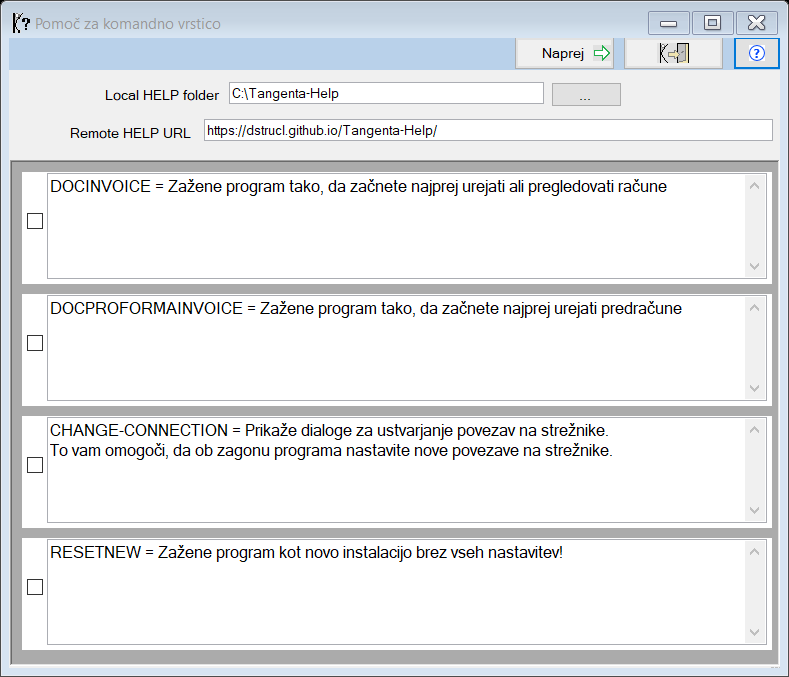
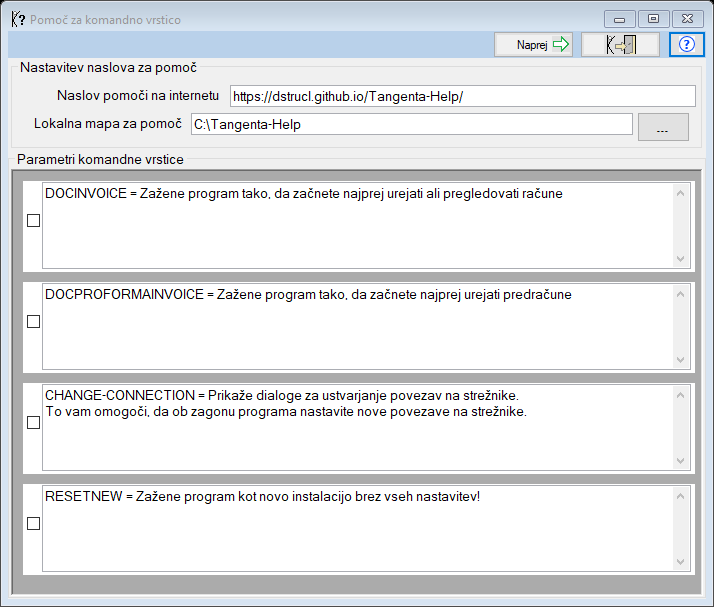
add header.html

Changed region(s): [[0.0, 0.0, 0.986, 1.0]]

diff --git a/V1_0_0_1/slo/CommandLineHelp/CommandLineHelp_Form.html b/V1_0_0_1/slo/CommandLineHelp/CommandLineHelp_Form.html
@@ -1,23 +1,30 @@
 <?xml version="1.0" encoding="utf-8"?>
 <html>
   <head>
-    <link rel="stylesheet" type="text/css" href="style.css"/>
+	<meta http-equiv="X-UA-Compatible" content="IE=edge" /> 
+    <link rel="stylesheet" type="text/css" href="style.css" />
     <title>Pomoč za komandno vrstico</title>
   </head>
   <body>
     <TControl name="CommandLineHelp_Form" imageincluded="1" link="" margin="4" heading="h1">
       <div class="Title">
-        <h1 class="Title">Pomoč za komandno vrstico in nastavitev povezave na pomoč</h1>
-        <div class="About">Dialog se prikaže kadar zaženemo program Tangenta.exe s parametrom 
-"/?"
-V zgornjem delu lahko nastavimo povezavo (mapo na lokalno pomoč)
-kot tudi internetni naslov pomoči.
-Dialog prikaže še vse ostale možne parametre komandne vrstice, 
-vključno z zagonom programa Tangenta.exe z izbranim parametrom.
-</div>
-        <img src="CommandLineHelp_Form.png" width="789" height="677" />
-        <div class="Description">V kolikor damo odkljukamo komandni parameter, se bo program nadaljeval 
-natanko tako, kot če bi ga napisali v komandni vrstici in nato zagnali.</div>
+<p id="demo"></p>
+
+<script>
+function loadXMLDoc() {
+  var xhttp = new XMLHttpRequest();
+  xhttp.onreadystatechange = function() {
+    if (this.readyState == 4 && this.status == 200) {
+      document.getElementById("demo").innerHTML =
+      this.responseText;
+    }
+  };
+  xhttp.open("GET", "file:///C:/Tangenta-Help/V1_0_0_1/slo/header.html", true);
+  xhttp.send();
+}
+</script>
+        <h1 class="Title" id="052d269c-a5cd-44ac-b026-f0b55f99c083">Pomoč za komandno vrstico</h1>
+        <img src="CommandLineHelp_Form.png" width="714" height="607" />
       </div>
       <TControl name="CommandLineHelp_Form.usrc_NavigationButtons1" imageincluded="1" link="" margin="4" heading="h2">
         <TControl name="CommandLineHelp_Form.usrc_NavigationButtons1.btn2" imageincluded="1" link="" margin="4" heading="h2" />
@@ -26,55 +33,43 @@ natanko tako, kot če bi ga napisali v komandni vrstici in nato zagnali.</div>
           <TControl name="CommandLineHelp_Form.usrc_NavigationButtons1.usrc_Help1.btn_Help" imageincluded="1" link="" margin="4" heading="h2" />
         </TControl>
       </TControl>
-      <TControl name="CommandLineHelp_Form.usrc_SelectLocalHelpFolder" imageincluded="1" link="" margin="4" heading="h2">
-        <TControl name="CommandLineHelp_Form.usrc_SelectLocalHelpFolder.label1" imageincluded="1" link="" margin="4" heading="h2" />
-        <TControl name="CommandLineHelp_Form.usrc_SelectLocalHelpFolder.txt_Folder" imageincluded="1" link="" margin="4" heading="h2" />
-        <TControl name="CommandLineHelp_Form.usrc_SelectLocalHelpFolder.btn_SelectFolder" imageincluded="1" link="" margin="4" heading="h2" />
+      <TControl name="CommandLineHelp_Form.usrc_HelpSettings1" imageincluded="1" link="" margin="4" heading="h2">
+        <TControl name="CommandLineHelp_Form.usrc_HelpSettings1.grp_HelpSettings" imageincluded="1" link="" margin="4" heading="h2">
+          <div class="Title">
+            <h2 class="Title" id="b618c00c-0727-4d0f-b257-daa74144ab39">Nastavitev naslova za pomoč</h2>
+            <img src="CommandLineHelp_Form_usrc_HelpSettings1_grp_HelpSettings.png" width="691" height="90" />
+          </div>
+          <TControl name="CommandLineHelp_Form.usrc_HelpSettings1.grp_HelpSettings.lbl_RemoteURL" imageincluded="1" link="" margin="4" heading="h2" />
+          <TControl name="CommandLineHelp_Form.usrc_HelpSettings1.grp_HelpSettings.txt_RemoteHelpURL" imageincluded="1" link="" margin="4" heading="h2" />
+          <TControl name="CommandLineHelp_Form.usrc_HelpSettings1.grp_HelpSettings.usrc_SelectLocalHelpFolder" imageincluded="1" link="" margin="4" heading="h2">
+            <TControl name="CommandLineHelp_Form.usrc_HelpSettings1.grp_HelpSettings.usrc_SelectLocalHelpFolder.label1" imageincluded="1" link="" margin="4" heading="h2" />
+            <TControl name="CommandLineHelp_Form.usrc_HelpSettings1.grp_HelpSettings.usrc_SelectLocalHelpFolder.txt_Folder" imageincluded="1" link="" margin="4" heading="h2" />
+            <TControl name="CommandLineHelp_Form.usrc_HelpSettings1.grp_HelpSettings.usrc_SelectLocalHelpFolder.btn_SelectFolder" imageincluded="1" link="" margin="4" heading="h2" />
+          </TControl>
+        </TControl>
       </TControl>
-      <TControl name="CommandLineHelp_Form.lbl_RemoteURL" imageincluded="1" link="" margin="4" heading="h2" />
-      <TControl name="CommandLineHelp_Form.txt_RemoteHelpURL" imageincluded="1" link="" margin="4" heading="h2" />
-      <TControl name="CommandLineHelp_Form.panel_Help" imageincluded="1" link="" margin="4" heading="h2">
-        <TControl name="CommandLineHelp_Form.panel_Help.CommandLineHelp_ItemControl[0]" imageincluded="1" link="" margin="4" heading="h2">
-          <div class="Title">
-            <h2 class="Title">Parameter "/DOCINVOICE"</h2>
-            <div class="About">V kolikor program zaženemo v komandni vrstici s parametron "/DOCINVOICE"
-se bo program avtomastko zagnal v načinu pisanja računov</div>
-            <img src="CommandLineHelp_Form_panel_Help_CommandLineHelp_ItemControl_0_.png" width="750" height="112" />
-          </div>
-          <TControl name="CommandLineHelp_Form.panel_Help.CommandLineHelp_ItemControl[0].txt_Help" imageincluded="1" link="" margin="4" heading="h2" />
-          <TControl name="CommandLineHelp_Form.panel_Help.CommandLineHelp_ItemControl[0].chk_select" imageincluded="1" link="" margin="4" heading="h2" />
-        </TControl>
-        <TControl name="CommandLineHelp_Form.panel_Help.CommandLineHelp_ItemControl[1]" imageincluded="1" link="" margin="4" heading="h2">
-          <div class="Title">
-            <h2 class="Title">Parameter "/DOCPROFORMAINVOICE"</h2>
-            <div class="About">V kolikor program zaženemo v komandni vrstici s parametron "/DOCINVOICE"
-se bo program avtomastko zagnal v načinu pisanja računov</div>
-            <img src="CommandLineHelp_Form_panel_Help_CommandLineHelp_ItemControl_1_.png" width="750" height="112" />
-          </div>
-          <TControl name="CommandLineHelp_Form.panel_Help.CommandLineHelp_ItemControl[1].txt_Help" imageincluded="1" link="" margin="4" heading="h2" />
-          <TControl name="CommandLineHelp_Form.panel_Help.CommandLineHelp_ItemControl[1].chk_select" imageincluded="1" link="" margin="4" heading="h2" />
-        </TControl>
-        <TControl name="CommandLineHelp_Form.panel_Help.CommandLineHelp_ItemControl[2]" imageincluded="1" link="" margin="4" heading="h2">
-          <div class="Title">
-            <h2 class="Title">Parameter "/CHANGE-CONNECTION"</h2>
-            <div class="About">V kolikor program zaženemo v komandni vrstici s parametron "/CHANGE-CONNECTION"
-se bo avtomatsko pojavil dialog za izbiro strežnika in nato podatkovne baze.</div>
-            <img src="CommandLineHelp_Form_panel_Help_CommandLineHelp_ItemControl_2_.png" width="750" height="112" />
-          </div>
-          <TControl name="CommandLineHelp_Form.panel_Help.CommandLineHelp_ItemControl[2].txt_Help" imageincluded="1" link="" margin="4" heading="h2" />
-          <TControl name="CommandLineHelp_Form.panel_Help.CommandLineHelp_ItemControl[2].chk_select" imageincluded="1" link="" margin="4" heading="h2" />
-        </TControl>
-        <TControl name="CommandLineHelp_Form.panel_Help.CommandLineHelp_ItemControl[3]" imageincluded="1" link="" margin="4" heading="h2">
-          <div class="Title">
-            <h2 class="Title">Parameter "/RESETNEW"</h2>
-            <div class="About">V kolikor program zaženemo v komandni vrstici s parametron "/RESETNEW"
-bo program vse nastavitve nastavil tako kot so bile ob sami prvi namestitvi
-programa, kar pomeni da boste morali še enkrat vnesti vse nastavitve.
-</div>
-            <img src="CommandLineHelp_Form_panel_Help_CommandLineHelp_ItemControl_3_.png" width="750" height="112" />
-          </div>
-          <TControl name="CommandLineHelp_Form.panel_Help.CommandLineHelp_ItemControl[3].txt_Help" imageincluded="1" link="" margin="4" heading="h2" />
-          <TControl name="CommandLineHelp_Form.panel_Help.CommandLineHelp_ItemControl[3].chk_select" imageincluded="1" link="" margin="4" heading="h2" />
+      <TControl name="CommandLineHelp_Form.grp_CommandLineParameters" imageincluded="1" link="" margin="4" heading="h2">
+        <div class="Title">
+          <h2 class="Title" id="53ce2651-0438-4250-86ea-a0e3281389c6">Parametri komandne vrstice</h2>
+          <img src="CommandLineHelp_Form_grp_CommandLineParameters.png" width="698" height="448" />
+        </div>
+        <TControl name="CommandLineHelp_Form.grp_CommandLineParameters.panel_Help" imageincluded="1" link="" margin="4" heading="h2">
+          <TControl name="CommandLineHelp_Form.grp_CommandLineParameters.panel_Help.CommandLineHelp_ItemControl[0]" imageincluded="1" link="" margin="4" heading="h2">
+            <TControl name="CommandLineHelp_Form.grp_CommandLineParameters.panel_Help.CommandLineHelp_ItemControl[0].txt_Help" imageincluded="1" link="" margin="4" heading="h2" />
+            <TControl name="CommandLineHelp_Form.grp_CommandLineParameters.panel_Help.CommandLineHelp_ItemControl[0].chk_select" imageincluded="1" link="" margin="4" heading="h2" />
+          </TControl>
+          <TControl name="CommandLineHelp_Form.grp_CommandLineParameters.panel_Help.CommandLineHelp_ItemControl[1]" imageincluded="1" link="" margin="4" heading="h2">
+            <TControl name="CommandLineHelp_Form.grp_CommandLineParameters.panel_Help.CommandLineHelp_ItemControl[1].txt_Help" imageincluded="1" link="" margin="4" heading="h2" />
+            <TControl name="CommandLineHelp_Form.grp_CommandLineParameters.panel_Help.CommandLineHelp_ItemControl[1].chk_select" imageincluded="1" link="" margin="4" heading="h2" />
+          </TControl>
+          <TControl name="CommandLineHelp_Form.grp_CommandLineParameters.panel_Help.CommandLineHelp_ItemControl[2]" imageincluded="1" link="" margin="4" heading="h2">
+            <TControl name="CommandLineHelp_Form.grp_CommandLineParameters.panel_Help.CommandLineHelp_ItemControl[2].txt_Help" imageincluded="1" link="" margin="4" heading="h2" />
+            <TControl name="CommandLineHelp_Form.grp_CommandLineParameters.panel_Help.CommandLineHelp_ItemControl[2].chk_select" imageincluded="1" link="" margin="4" heading="h2" />
+          </TControl>
+          <TControl name="CommandLineHelp_Form.grp_CommandLineParameters.panel_Help.CommandLineHelp_ItemControl[3]" imageincluded="1" link="" margin="4" heading="h2">
+            <TControl name="CommandLineHelp_Form.grp_CommandLineParameters.panel_Help.CommandLineHelp_ItemControl[3].txt_Help" imageincluded="1" link="" margin="4" heading="h2" />
+            <TControl name="CommandLineHelp_Form.grp_CommandLineParameters.panel_Help.CommandLineHelp_ItemControl[3].chk_select" imageincluded="1" link="" margin="4" heading="h2" />
+          </TControl>
         </TControl>
       </TControl>
     </TControl>

diff --git a/V1_0_0_1/slo/header.html b/V1_0_0_1/slo/header.html
@@ -1,0 +1,4 @@
+<div class = "header">
+<a href="https://www.w3schools.com/html/">Visit our HTML tutorial</a>
+<a href="https://www.siol.net">Visit SIOL</a>
+</div>
